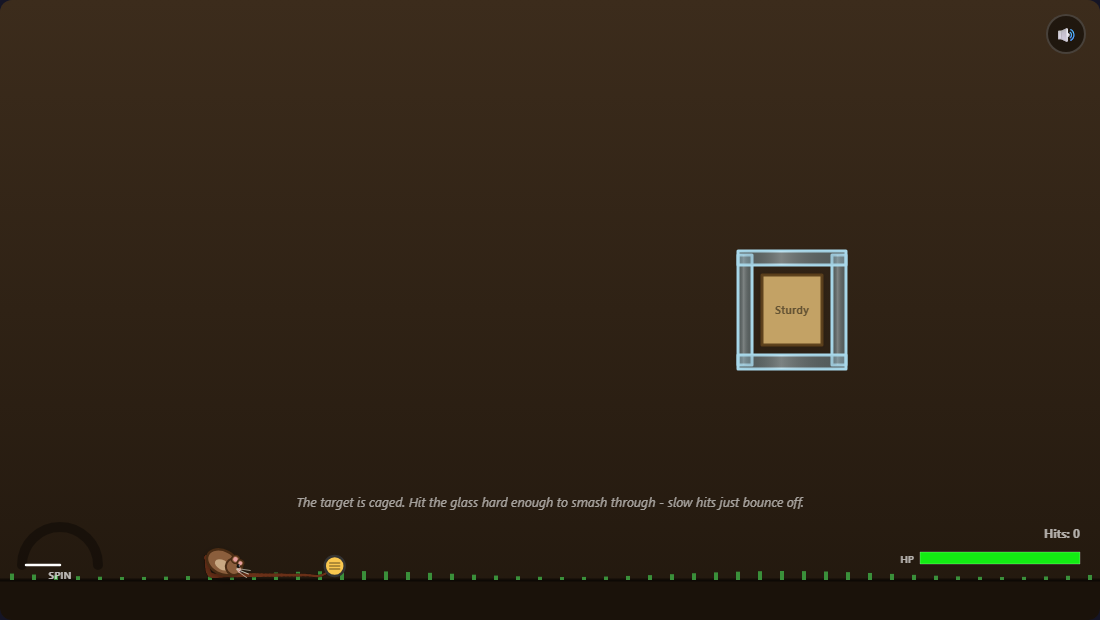
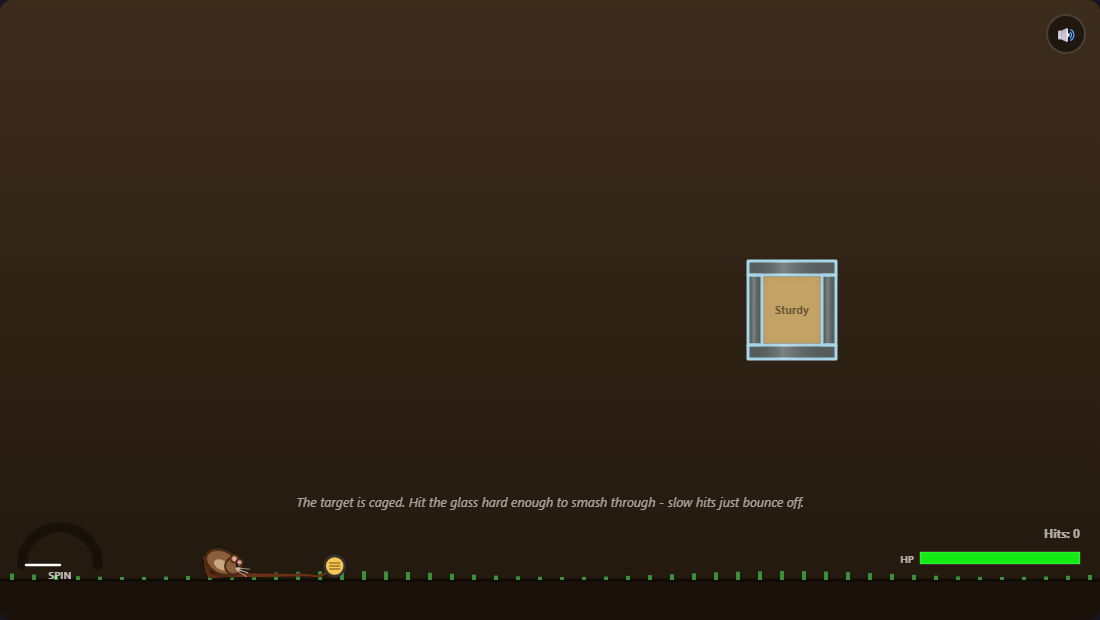
fix(levels): remap the gate by purpose, and build the shield cages flush
Gate cases were pinned to level ids ("L4 = shields, L8 = needs the yank") and
the re-lay moved every mechanic to a new id. Each case now names its purpose -
swing (both variants), shield gate, bumper, blade uncut, finale - with a seed
probed to SHATTER at fixed dt. The level-count check reads LEVELS.length; it
was a hardcoded 9, the same copied-value drift that broke the gate last re-lay.
Containment moves to L12, because the new L9 has a zone that would clamp the
whip before it reached a wall.

There is no "needs the yank" case any more: no level in layout 2 needs it
(Deflector cleared 4/4 bot seeds, the finale 3/3, with no yank). The yank path
is asserted directly instead - every case must register yanks - and the shield
gate asserts a break. Gate: 120/120.

The remap found a soft-lock. In the gate's own run order, L7 Glass Cage sat at
rest for 90 s through 60 yanks. Reproduced and screenshotted: after three
panels broke, the tail looped right round the last free-standing panel and the
rat wedged in the 10px slot between it and the target. The cage had been built
with clearance, so every surviving panel became a thin post beside a slot -
exactly the geometry a yank cannot undo. Both cages (L7, L8) are now flush, so
whatever survives is one solid block like any floating target. The same run
order now clears in 3.5 s.

Two things noted, not fixed: fixed-dt runs are not independent of what ran
earlier on the same page (L7 seed 7 won alone and timed out after other runs),
[…]

Changed region(s): [[0.6491, 0.3984, 0.7727, 0.6129], [0.1855, 0.8887, 0.2164, 0.9194]]

diff --git a/js/levels.js b/js/levels.js
@@ -52,8 +52,9 @@ export const LEVELS = [
     // wood target held just OFF the floor - on the floor, the 200px tail dragged
     // along the ground (31-33k rope contacts per bot run, 1-3 hits in 60 s),
     // so the target stays where the old L2 kept its targets. The arc is slow and
-    // wide and has to be committed to early - L1's short-rope reflexes overshoot it. Working if: >= 90% clear, and
-    // glancing rate above L1's (the long arc is harder to aim).
+    // wide and has to be committed to early - L1's short-rope reflexes overshoot
+    // it. Working if: >= 90% clear, and glancing rate above L1's (the long arc is
+    // harder to aim).
     id: 2,
     kind: 'teaching', teaches: 'swing',
     act: 1,
@@ -165,17 +166,23 @@ export const LEVELS = [
     hint: 'Your hand is boxed in - the outline shows where it can go. Sweep sideways to build speed.',
   },
   {
-    // TEACHES the shield, as a gate. The only target sits on the floor inside
-    // a cage of four light (glass) panels, so the level cannot be won without
+    // TEACHES the shield, as a gate. The only target floats inside a cage
+    // of four light (glass) panels, so the level cannot be won without
     // breaking one - the user's "surround the target" design. Any panel will do.
     // No zone, so nothing else is in the way. Light is the tier rule 6 always
     // allows. Working if: >= 90% clear, and the cage breaks in >= 80% of runs.
     //
-    // Cage geometry (px, canvas 1100x620): a 60x70 target floating at (792, 310),
-    // four panels 10px clear of it, lid and floor overlapping the side panels'
-    // ends so there is no corner gap. It floats rather than sitting on the ground
-    // because a floor-level cage cannot fit between the hint text (ending
-    // ~x 805 at y ~510) and the HP bar (from x ~900): both covered it.
+    // Cage geometry (px, canvas 1100x620): a 60x70 target floating at (792, 310)
+    // with four panels FLUSH against it - sides the target's height, lid and
+    // floor spanning the full 88px so they cover the corners. Together they are
+    // one solid 88x98 block. It floats because a floor-level cage cannot fit
+    // between the hint text (ending ~x 805 at y ~510) and the HP bar (from x ~900).
+    //
+    // FLUSH, not spaced. A first version left 10px of clearance, and once some
+    // panels broke, each survivor was a thin free-standing post beside a 10px
+    // slot: the tail looped right round the post and wedged the rat in the slot,
+    // at rest for 90 s through 60 yanks - a soft-lock in a teaching level. Flush,
+    // whatever survives is part of one solid block, like any floating target.
     id: 7,
     kind: 'teaching', teaches: 'shield',
     act: 2,
@@ -187,10 +194,10 @@ export const LEVELS = [
     pushStringLength: 160,
     targets: [
       { shape: 'rectangle', w: 60, h: 70, x: 0.72, y: 0.50, material: 'wood' },
-      { shape: 'rectangle', w: 14, h: 110, x: 0.6773, y: 0.50, isShield: true, shieldTier: 'light' },
-      { shape: 'rectangle', w: 14, h: 110, x: 0.7627, y: 0.50, isShield: true, shieldTier: 'light' },
-      { shape: 'rectangle', w: 108, h: 14, x: 0.72, y: 0.4161, isShield: true, shieldTier: 'light' },
-      { shape: 'rectangle', w: 108, h: 14, x: 0.72, y: 0.5839, isShield: true, shieldTier: 'light' },
+      { shape: 'rectangle', w: 14, h: 70, x: 0.6864, y: 0.50, isShield: true, shieldTier: 'light' },
+      { shape: 'rectangle', w: 14, h: 70, x: 0.7536, y: 0.50, isShield: true, shieldTier: 'light' },
+      { shape: 'rectangle', w: 88, h: 14, x: 0.72, y: 0.4323, isShield: true, shieldTier: 'light' },
+      { shape: 'rectangle', w: 88, h: 14, x: 0.72, y: 0.5677, isShield: true, shieldTier: 'light' },
     ],
     parScore: 2000,
     pushParScore: 3000,
@@ -219,10 +226,10 @@ export const LEVELS = [
     pushStringLength: 160,
     targets: [
       { shape: 'rectangle', w: 60, h: 70, x: 0.72, y: 0.50, material: 'glass' },
-      { shape: 'rectangle', w: 14, h: 110, x: 0.6773, y: 0.50, isShield: true, shieldTier: 'medium' },
-      { shape: 'rectangle', w: 14, h: 110, x: 0.7627, y: 0.50, isShield: true, shieldTier: 'medium' },
-      { shape: 'rectangle', w: 108, h: 14, x: 0.72, y: 0.4161, isShield: true, shieldTier: 'medium' },
-      { shape: 'rectangle', w: 108, h: 14, x: 0.72, y: 0.5839, isShield: true, shieldTier: 'medium' },
+      { shape: 'rectangle', w: 14, h: 70, x: 0.6864, y: 0.50, isShield: true, shieldTier: 'medium' },
+      { shape: 'rectangle', w: 14, h: 70, x: 0.7536, y: 0.50, isShield: true, shieldTier: 'medium' },
+      { shape: 'rectangle', w: 88, h: 14, x: 0.72, y: 0.4323, isShield: true, shieldTier: 'medium' },
+      { shape: 'rectangle', w: 88, h: 14, x: 0.72, y: 0.5677, isShield: true, shieldTier: 'medium' },
     ],
     parScore: 2200,
     pushParScore: 3000,

diff --git a/CLAUDE.md b/CLAUDE.md
@@ -185,7 +185,7 @@ Use `/voice <mode>` to switch; `/voice` alone shows the current mode and options
 - **Ground line**: `GROUND_TOP_INSET` (40) in `physics.js` is the single definition of where the floor is, exported and imported by `renderer.js` so the physical and drawn surfaces cannot drift apart ([L0182]). They used to: `groundBody`'s top sat at the canvas bottom edge (y 620) while `drawGround` painted its surface at y 580, so every body rested 40px inside the dirt and `paintSplat` hid it by drawing decals at the visual line regardless of where the body actually was. Use `Physics.getGroundTop()` to place anything on the floor.
 - **Collision categories** (`physics.js` `CAT`/`MASK`): rat `0x0001`, targets and bumpers `0x0002`, fragments `0x0004`, rope `0x0010`, world (ground/walls) `0x0020`. Matter allows a pair only when *both* filters agree, so every intended pair is declared from both sides. Ground and walls previously set no filter at all and inherited Matter's default `0x0001` — the same bit the rat uses — which is why the rat fell through floors and why rope could not hit world geometry without also hitting the rat.
 - **Rope collision (manual CCD)**: Matter 0.19 has no continuous collision detection, and rope segments whip to ~432 px/step against 44px bumpers, so discrete collision misses most contacts. Two passes run after each `Engine.update`: `sweepRopeSegments` sweeps each segment from its previous to its current position (`Matter.Query.ray`, then a binary search for the last free point) and `resolveRopeLinks` does the same for the *line between* adjacent segments, since the rope is a chain of circles with gaps a link can cut through. Measured effect: segment penetration 2.2% -> 0%, link crossings 5-7.5% -> under 1%, cost ~0.21ms/frame. Segments moving less than their own radius are skipped, which is what keeps it cheap. Neither pass touches the rat: it is large enough for discrete collision and it carries the damage.
-- **Yank**: `pointerdown` (the pivot still snaps to the pointer) pulls the rat toward the pivot to slacken and unwind a caught rope — 0.6s cooldown. Non-accelerating *by construction*: tangential motion is damped, a radial component is added, and the result is clamped to the speed the rat already had, so it can never exceed it. This is load-bearing, not a convenience: with the rope, Level 8 is unwinnable without it (6/6 bot failures, zero hits). A snag prompt appears after 2.5s below 25 px/step and is suppressed once the player has yanked once.
+- **Yank**: `pointerdown` (the pivot still snaps to the pointer) pulls the rat toward the pivot to slacken and unwind a caught rope — 0.6s cooldown. Non-accelerating *by construction*: tangential motion is damped, a radial component is added, and the result is clamped to the speed the rat already had, so it can never exceed it. It was load-bearing in the nine-level layout, where L8 (Crossfire) was unwinnable without it (6/6 bot failures, zero hits). **No level in layout 2 needs it** — Deflector cleared 4/4 bot seeds and the finale 3/3 with no yank — so the gate asserts the yank path directly (`yank input registered`) rather than through a level that is impossible otherwise. It still matters: a tail looped round a thin floating post is exactly what yanking cannot fix, which is why the shield cages are built flush (see L7 in `levels.js`). A snag prompt appears after 2.5s below 25 px/step and is suppressed once the player has yanked once.
 - **HP system**: `ratHp` starts at 100. Damage per hit = `speed² × angleFactor × material.yoyoDamage × impactMultiplier × comboMultiplier / DAMAGE_SCALE` (`DAMAGE_SCALE = 80`). HP floors at 0; the rat shatters (giblets) when HP reaches 0. `DAMAGE_SCALE` was raised to 2000 in an earlier pass on the (incorrect) assumption that real swings reach ~60% of `pushMaxSpeed`; playtesting showed actual swing speeds land far below that, producing 30-40 hits to clear Level 1, so it was corrected back down to 200, and then to 80 in the 2026-09-13 variant rebalance (see **Variant difficulty** below). **`DAMAGE_SCALE` is a tuning group, not a lone constant:** three feedback constants in `main.js` are expressed in raw damage units and must scale in the same direction by the same factor in the same commit — `damageIntensity`'s `600`, `SHAKE_GATE` (`180`) and the shake's `/120` divisor (the original trio was `240`, `120` and `80` when `DAMAGE_SCALE` was 200). `pushMaxSpeed` is a **presentation knob only** — its single use is normalising the speed meter and the whoosh in `main.js`; it never enters the damage formula. Validated against human free-swing calibration on the rope build (2026-09-12): standard peaks at 720 against its 750, i.e. 96%, so the meter is correctly scaled; heavy peaked at 784 against 625, so heavy was raised to 785. `DAMAGE_SCALE` was left at 200 through the rope work (2026-09-12) because the data did not support a change; it moved to 80 the next day as part of the variant rebalance, and the L1 result was verified by human play — median 4 hits on standard against the documented 3–4 target, down from 10.5.
 - **Hit cooldown**: 0.35s lock-out after each registered hit. Prevents the physics engine from double-counting a single contact.
 - **Combo system**: Each hit within `COMBO_WINDOW` (1.0s) increments `comboCount`. Multiplier = `min(1 + comboCount × 0.5, 3.0)`. Resets if the window expires before the next hit.
